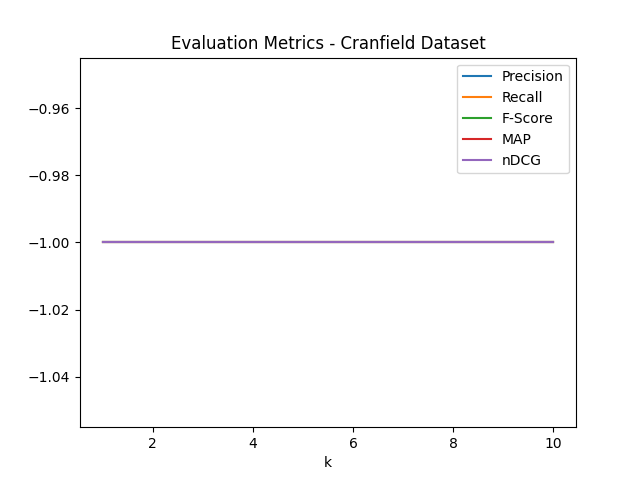
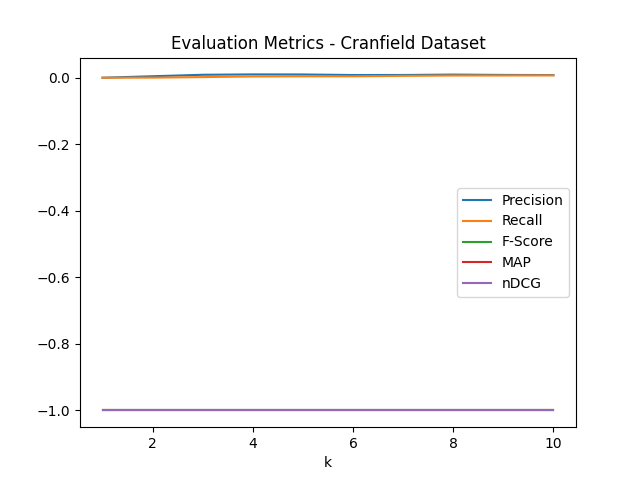
update_mid

diff --git a/PA1-P2/evaluation.py b/PA1-P2/evaluation.py
@@ -31,9 +31,16 @@ class Evaluation():
 		"""
 
 		precision = -1
-
+		# print(query_doc_IDs_ordered)
 		#Fill in code here
-		
+		cnt=0
+		for i in range(k):
+			if query_doc_IDs_ordered[i] in true_doc_IDs:
+				cnt+=1
+
+		precision = cnt/k			# intersec / retrieved
+		# print(cnt)
+		# print(k)
 
 		return precision
 
@@ -66,6 +73,23 @@ class Evaluation():
 		meanPrecision = -1
 
 		#Fill in code here
+		
+		q_rel_docs={} ## {qID : List of Rel Docs}
+		for i in query_ids:
+			q_rel_docs.update({i:[]})
+
+		sum_pres=0
+		for i in qrels:
+			if int(i["query_num"]) in query_ids:
+				# temp = i["query_num"] - 1
+				q_rel_docs[ int(i["query_num"]) ].append( int(i["id"]) )
+		
+		cnt=0
+		for i in query_ids:
+			sum_pres = sum_pres + self.queryPrecision(doc_IDs_ordered[cnt], i-1, q_rel_docs[i], k)
+			cnt+=1
+
+		meanPrecision = sum_pres/len(query_ids)
 
 		return meanPrecision
 
@@ -96,6 +120,12 @@ class Evaluation():
 		recall = -1
 
 		#Fill in code here
+		cnt=0
+		for i in range(k):
+			if query_doc_IDs_ordered[i] in true_doc_IDs:
+				cnt+=1
+
+		recall = cnt/len(true_doc_IDs)			# intersec / relevant
 
 		return recall
 
@@ -129,6 +159,23 @@ class Evaluation():
 
 		#Fill in code here
 
+		q_rel_docs={} ## {qID : List of Rel Docs}
+		for i in query_ids:
+			q_rel_docs.update({i:[]})
+
+		sum_rel=0
+		for i in qrels:
+			if int(i["query_num"]) in query_ids:
+				# temp = i["query_num"] - 1
+				q_rel_docs[ int(i["query_num"]) ].append( int(i["id"]) )
+		
+		cnt=0
+		for i in query_ids:
+			sum_rel = sum_rel + self.queryRecall(doc_IDs_ordered[cnt], i-1, q_rel_docs[i], k)
+			cnt+=1
+
+		meanRecall = sum_rel/len(query_ids)
+
 		return meanRecall
 
 
@@ -158,7 +205,10 @@ class Evaluation():
 		fscore = -1
 
 		#Fill in code here
-
+		precision=self.queryPrecision(query_doc_IDs_ordered, query_id, true_doc_IDs, k)
+		recall	 =self.queryRecall(query_doc_IDs_ordered, query_id, true_doc_IDs, k)
+		fscore = (1/precision) + (1/recall)
+		fscore=1/fscore
 		return fscore
 
 

diff --git a/PA1-P2/informationRetrieval.py b/PA1-P2/informationRetrieval.py
@@ -35,7 +35,7 @@ class InformationRetrieval():
 		t_dict={}
 		docIDs_dict={}
 		cnt=0
-		print(docs[0])
+		# print(docs[0])
 		for i in docs:
 			temp=[]
 			for j in i:
@@ -166,7 +166,7 @@ class InformationRetrieval():
 			for k in order:
 				temp_lst.append(docIDs[k])
 			doc_IDs_ordered.append(temp_lst)
-
+		# print(doc_IDs_ordered[0])
 		return doc_IDs_ordered
 
 
